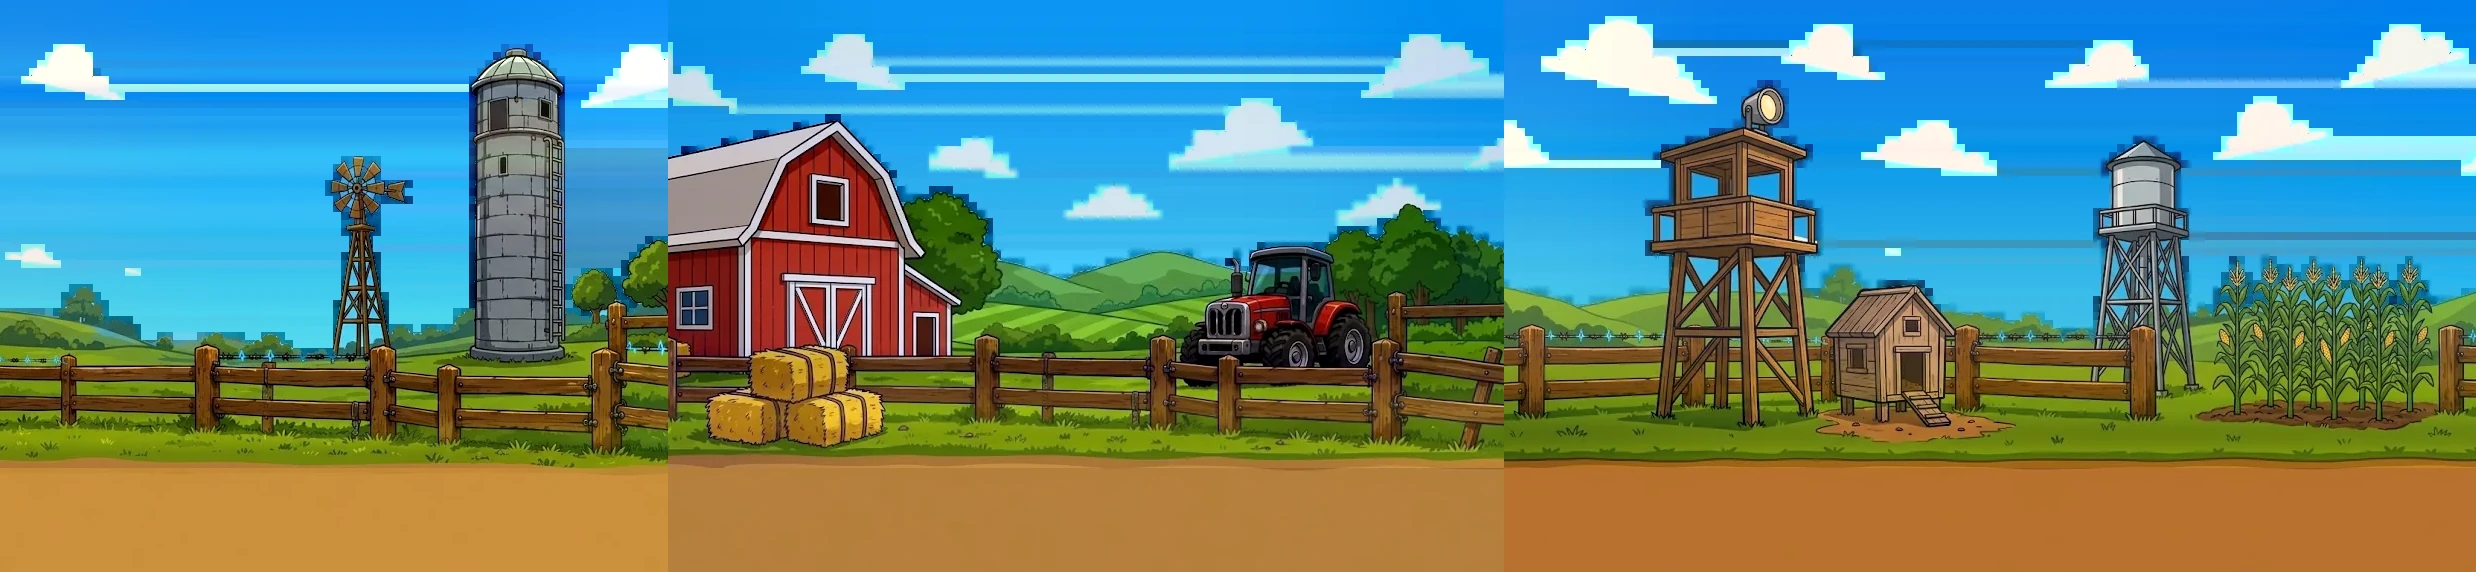
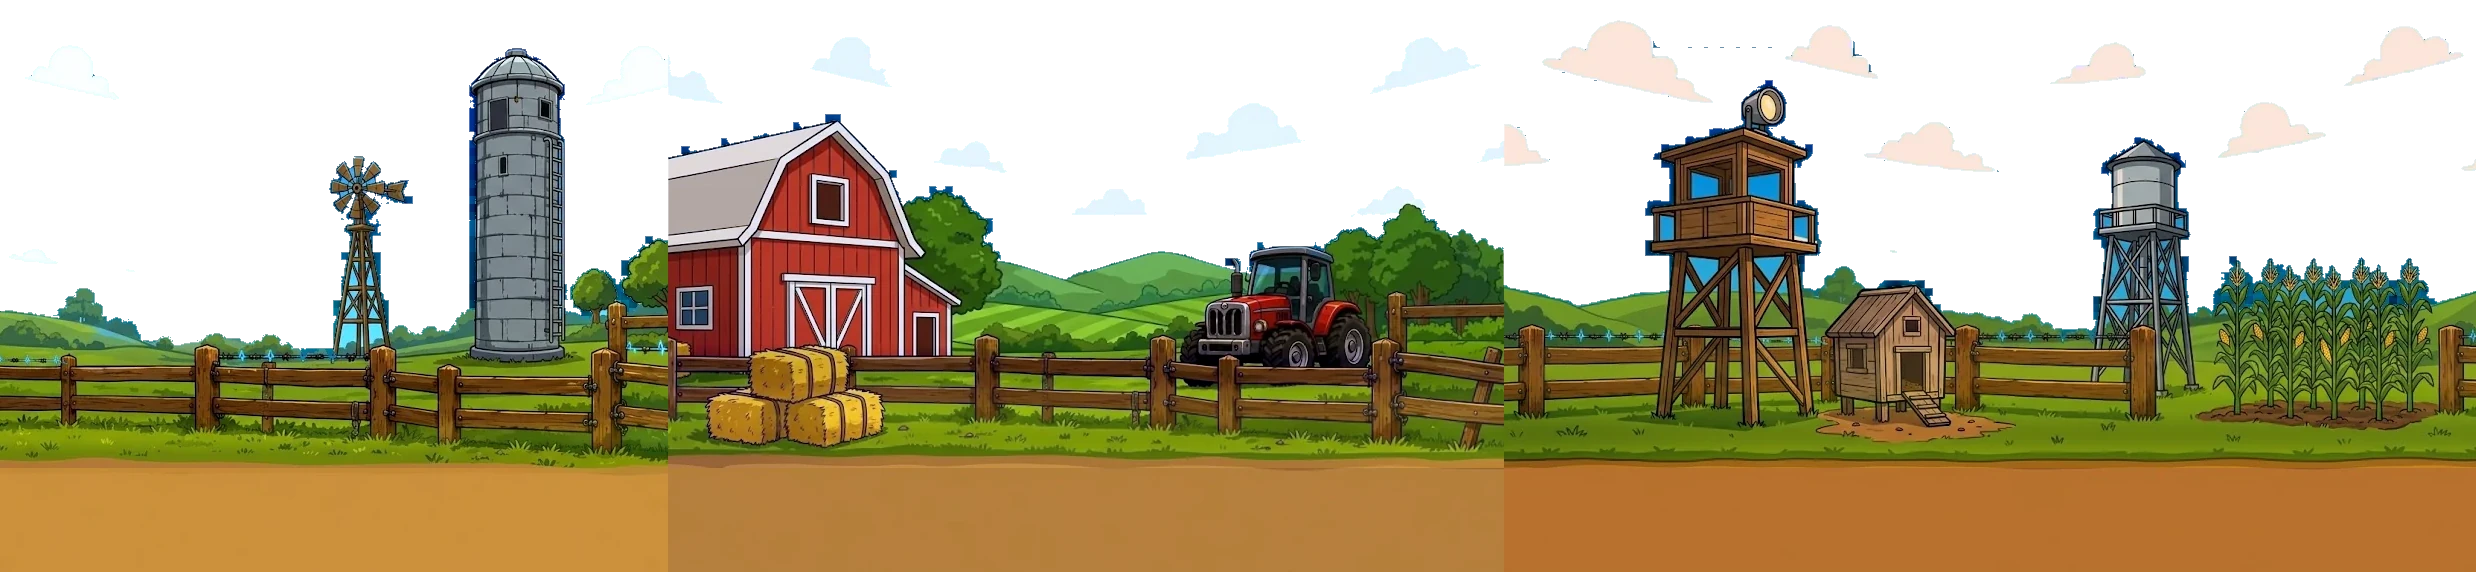
Make the background one painting instead of three
Three panels, overlapped by 46 units and cross-faded into each other through an
alpha ramp, each scaled by a different amount so its own landmarks would land
where the game wanted them. That is where the ghosting came from -- a silo
showing faintly through a windmill -- and why the fence changed size halfway
across the field.

tools/farm_strip.py joins them once, offline, and the game draws the result:

- The seams are searched for rather than assumed. Every pair of columns near
  the facing edges is scored and the best-matching pair wins, so the join lands
  where the fence, the horizon and the grass already agree.
- The ground lines -- painted at 0.785, 0.802 and 0.820 -- are levelled by
  sliding each panel down, not by scaling it, so every fence post stays the
  size it was painted.
- The painted sky is keyed out. The three skies are (27,157,252), (56,182,253)
  and (1,117,216) at the same height; that is not one sky and no correction
  makes it one. Matching them row by row left a step and striped the sky where
  the clouds starved the average. So the game's own gradient shows through the
  whole strip instead, and the painted clouds ride over it -- they are enclosed
  by sky, so the flood that clears it never reaches them.

The fields are still tone-matched row by row, smoothed, and feathered across
each seam. The haze that pushes the distance back is eased from .15 to .10,
since half of what read as faded was the cross-fade.
[…]

diff --git a/index.html b/index.html
@@ -3242,17 +3242,16 @@ function loadPanels(SET){
   });
   return SET;
 }
-/* `marks` is TWO landmarks per panel, measured off each image by
-   tools/cut_farm.py: the painted ground line, and the top of the fence's top
-   rail, both as fractions of that image's height. Two landmarks give two
-   equations, and a panel has two unknowns -- its scale and where its top sits
-   -- so both can be solved instead of guessed. That is what makes the grass
-   line AND the fence line run continuously across a seam.
+/* `marks` is TWO landmarks: the painted ground line, and the top of the
+   fence's top rail, both as fractions of the image's height. Two landmarks
+   give two equations, and the image has two unknowns -- its scale and where
+   its top sits -- so both are solved rather than guessed, which is what puts
+   the grass line on GROUND and the fence rail where the game expects it.
 
-   One shared floorFrac was the bug: the three panels were painted with ground
-   lines at 0.785, 0.802 and 0.820, so anchoring all of them on 0.806 stepped
-   the grass by up to 13px at every join and left the fence rails meeting at
-   different heights, which is what read as fences that do not attach. */
+   They used to be three panels with three pairs of marks, and the three ground
+   lines really were painted at 0.785, 0.802 and 0.820. tools/farm_strip.py
+   levels that offline now, by sliding each panel rather than scaling it, so
+   there is one pair of marks left. */
 /* ONE painting. The three panels used to be drawn as three: overlapped by 46
    units, cross-faded into each other through an alpha ramp, and each scaled by
    a different amount so its own two landmarks would land where the game wanted
@@ -3261,14 +3260,17 @@ function loadPanels(SET){
    and the per-panel scale made the fence change size halfway across the field,
    which is what read as fences that do not join.
 
-   tools/farm_strip.py now joins them once, offline: the seam is searched for
-   rather than assumed, the ground lines are levelled by sliding each panel
-   instead of scaling it, and the skies and fields are tone-matched row by row.
-   The game draws the result as a single opaque image, tiled -- so `blend` is 0
-   and there is nothing left to see through. Re-run that tool if the panels are
-   ever repainted; it prints the two marks below. */
+   tools/farm_strip.py now joins them once, offline: the seams are searched
+   for rather than assumed, the ground lines are levelled by sliding each panel
+   instead of scaling it, and the fields are tone-matched. The painted sky is
+   keyed out entirely -- the three skies were (27,157,252), (56,182,253) and
+   (1,117,216) at the same height, which is not one sky by any amount of
+   correction -- so the game's own gradient shows through the whole strip and
+   the clouds ride over it. The game tiles the result; `blend` is 0 and there
+   is nothing left to see through. Re-run that tool if the panels are ever
+   repainted; it prints the two marks below. */
 const FARM = loadPanels({ srcs:['sheets/v2/farm_strip.webp'],
-               imgs:[], ready:0, blend:0, haze:'rgba(146,196,246,.15)',
+               imgs:[], ready:0, blend:0, haze:'rgba(146,196,246,.10)',
                marks:[[0.8199,0.6276]],
                // buildLayers has already run by the time the art lands, so the
                // fallback layers are still in `layers`. Throw them away.
@@ -3295,12 +3297,9 @@ function titleRect(){
   return { w: iw*s, h: ih*s, x: (VW - iw*s)/2, y: (VH - ih*s)/2 };
 }
 
-/* The painted farm. Each panel is solved from its own two landmarks, so they
-   are not all the same size -- the widest is about 17% bigger than the
-   narrowest -- and that is fine: they are different scenery, and a continuous
-   fence line is worth far more than identical scales. Sizing them against the
-   play band instead of GROUND magnifies a 572px source about fourfold and puts
-   the silo tops off the frame, which is the trap the prison wall hit. */
+/* The painted farm: one image, one scale, tiled. Sizing it against the play
+   band instead of GROUND magnifies a 572px source about fourfold and puts the
+   silo tops off the frame, which is the trap the prison wall hit. */
 function farmGeom(){
   if(FARM.geom && FARM.geom.ground === GROUND && FARM.geom.n === FARM.ready) return FARM.geom;
   const F = GROUND * FARM_RAIL;

diff --git a/tools/farm_strip.py b/tools/farm_strip.py
@@ -18,12 +18,18 @@
       panel to reconcile that is what made the scenery change size; sliding each
       one down instead keeps every fence post the size it was painted, and the
       sky it exposes at the top is the panel's own top row.
-   3. **Tone is matched row by row.** Each panel's sky is nudged towards the
-      mean of the three skies and its field towards the mean of the three
-      fields, one row at a time and additively. The measurement only looks at
-      pixels that are actually sky or actually grass, so a red barn cannot drag
-      a row with it, and the dirt band below the ground line is skipped -- the
-      game crops it and draws the road there instead.
+   3. **The painted sky is thrown away.** The three skies are not variations of
+      one sky, they are different skies: (27,157,252), (56,182,253) and
+      (1,117,216) at the same height. Nothing short of repainting reconciles
+      that, and matching them flattens the art while still leaving a step. So
+      the sky is keyed out and the game's own gradient shows through the whole
+      strip -- one sky by construction, and one less thing to keep in step. The
+      painted clouds stay: they are enclosed by sky, so the flood never reaches
+      them.
+   4. **The fields are tone-matched** row by row, additively, measuring only
+      pixels that are actually grass so a red barn cannot drag a row with it,
+      and the seams get a local correction on top. The dirt band below the
+      ground line is skipped -- the game crops it and draws the road there.
 
      python tools/farm_strip.py          # -> sheets/v2/farm_strip.webp
 """
@@ -84,8 +90,9 @@ def match_rows(ims, spans, ground_f):
     span_n = [max(1, (sp[1]-sp[0])//3) for sp in spans]
 
     deltas = [[None]*gline for _ in ims]          # per panel, per row, per channel
-    for y in range(gline):
-        pick = is_sky if y < horizon else is_grass
+    # rows above the horizon are sky and are about to be keyed away entirely
+    for y in range(horizon, gline):                # the sky is keyed out, not matched
+        pick = is_grass
         means, counts = [], []
         for im, sp in zip(ims, spans):
             m, n = band_mean(im, sp, y, pick)
@@ -153,8 +160,8 @@ def feather_seams(strip, seams, ground_f, reach=260):
                     if pick(c):
                         tot[0] += c[0]; tot[1] += c[1]; tot[2] += c[2]; n += 1
             return ([t/n for t in tot], n) if n > 40 else (None, n)
-        band = []
-        for pick, y0, y1 in ((is_sky, 0, horizon), (is_grass, horizon, gline)):
+        band = [[0.0, 0.0, 0.0]]                   # the sky is keyed out; nothing to match
+        for pick, y0, y1 in ((is_grass, horizon, gline),):
             L, nl = side_mean(sx-1, -1, pick, y0, y1)
             R, nr = side_mean(sx,    +1, pick, y0, y1)
             if L is None or R is None: band.append([0.0, 0.0, 0.0]); continue
@@ -179,6 +186,50 @@ def feather_seams(strip, seams, ground_f, reach=260):
     return strip
 
 
+def key_sky(strip, ground_f):
+    """Flood the sky away from the top edge, so the game's gradient shows.
+
+       A flood, not a colour key: the clouds are white and enclosed by sky, so
+       the flood cannot reach them and they survive as painted clouds over the
+       game's sky. Nothing else in the picture is this blue, and the windmill's
+       lattice and the gaps under the water tower open onto the sky, so they
+       clear too."""
+    strip = strip.convert('RGBA')
+    w, h = strip.size
+    px = strip.load()
+    gline = int(h*ground_f)
+
+    def skyish(c):
+        return c[3] and c[2] > c[0] + 40 and c[2] > 150 and c[1] > c[0] + 20
+
+    from collections import deque
+    seen = bytearray(w*h)
+    q = deque()
+    for x in range(w):
+        if skyish(px[x, 0]): seen[x] = 1; q.append((x, 0))
+    while q:
+        x, y = q.popleft()
+        px[x, y] = (0, 0, 0, 0)
+        for dx, dy in ((1,0),(-1,0),(0,1),(0,-1)):
+            nx, ny = x+dx, y+dy
+            if 0 <= nx < w and 0 <= ny < gline and not seen[ny*w+nx] and skyish(px[nx, ny]):
+                seen[ny*w+nx] = 1; q.append((nx, ny))
+
+    # one pass of feathering, so the hard pixel edge does not fizz against a
+    # gradient it was never painted over
+    edge = []
+    for y in range(1, gline-1):
+        for x in range(1, w-1):
+            if px[x, y][3] == 0: continue
+            if (px[x-1, y][3] == 0 or px[x+1, y][3] == 0 or
+                px[x, y-1][3] == 0 or px[x, y+1][3] == 0):
+                edge.append((x, y))
+    for x, y in edge:
+        c = px[x, y]
+        px[x, y] = (c[0], c[1], c[2], 170)
+    return strip
+
+
 def build():
     ims = [Image.open(s).convert('RGB') for s in SRCS]
     target = max(GROUND_F)
@@ -199,15 +250,17 @@ def build():
         x += sp[1]-sp[0]; seams.append(x)
     seams.append(0)                                # the loop point is a seam too
     strip = feather_seams(strip, seams, target)
-    strip.save(OUT, 'WEBP', quality=90, method=6)
+    strip = key_sky(strip, target)
+    strip.save(OUT, 'WEBP', quality=90, method=6, lossless=False, exact=True)
 
     rail = sum(RAIL_F)/3.0 + (target - sum(GROUND_F)/3.0)   # the rail slides too
     print('%s  %dx%d  %d KB' % (OUT, strip.width, strip.height, os.path.getsize(OUT)//1024))
     print('ground %.4f   rail %.4f   (both fractions of the image height)' % (target, rail))
 
-    two = Image.new('RGB', (int(total*1.4), strip.height))
-    two.paste(strip, (0, 0))
-    two.paste(strip.crop((0, 0, int(total*0.4), strip.height)), (total, 0))
+    two = Image.new('RGB', (int(total*1.4), strip.height), (34, 120, 214))
+    two.paste(strip, (0, 0), strip)
+    cut = strip.crop((0, 0, int(total*0.4), strip.height))
+    two.paste(cut, (total, 0), cut)
     two.resize((two.width//2, two.height//2), Image.LANCZOS).save('_farm_strip.png')
     return strip
 

diff --git a/_CONTINUE-HERE.md b/_CONTINUE-HERE.md
@@ -806,6 +806,8 @@ dropped frame every 26s, for tens of MB of canvas held on a phone.
     python tools/shot.py URL out.png        # one screenshot, real device metrics
     python tools/title_art.py               # rebuild the title poster from ref/
     python tools/npc_frames.py              # recut the cow, pig and goat frames
+    python tools/farm_seams.py              # where the farm panels should be cut
+    python tools/farm_strip.py              # rebuild the one-image background
     python tools/build_apex.py              # rebuild the barn's roof from sheets/v2/barn_raw.png
 
 `clip.py` uses `Page.startScreencast`, which timestamps frames, so the GIF keeps
@@ -903,6 +905,40 @@ frame with none on screen, which looks exactly like a wiring bug and cost a
 long chase through save/restore depth, clip regions and canvas identity before
 a six-frame strip showed them walking about quite happily. Grab a clip with
 `tools/clip.py`, not a screenshot.
+
+## The background is one painting
+
+`sheets/v2/farm_strip.webp` is the whole farm: one image, one scale, tiled.
+`tools/farm_strip.py` builds it from the three painted panels, and it exists
+because drawing them as three was the source of every complaint about this
+background.
+
+What was wrong, and what replaced it:
+
+- **They overlapped and cross-faded.** A 46-unit overlap with an alpha ramp
+  down each panel's left edge meant one painting showed through another -- a
+  silo ghosting behind a windmill. The strip is cut, not blended: the seam is
+  *searched for* (`tools/farm_seams.py` scores every pair of columns near the
+  facing edges and keeps the pair that meets best), so the join lands where the
+  fence, the horizon and the grass already agree.
+- **Each panel was scaled differently** so its own two landmarks would land
+  where the game wanted them -- up to 17% apart, which is why the fence changed
+  size halfway across the field. The ground lines are levelled by *sliding*
+  each panel now, which keeps every fence post the size it was painted.
+- **The painted sky is thrown away.** The three skies are not variations of one
+  sky: (27,157,252), (56,182,253) and (1,117,216) at the same height. No
+  correction reconciles that -- row-matching them left a step and flattened the
+  art -- so the sky is keyed out and the game's own gradient shows through the
+  whole strip. One sky by construction. The clouds survive: they are white and
+  enclosed by sky, so the flood that clears it never reaches them.
+
+The remaining tone differences are in the fields, and those are matched row by
+row and then feathered across each seam. **Smooth the corrections before
+applying them**: measured per row and used raw, a row that happens to be mostly
+cloud has almost no sky left to average, the delta jumps against its
+neighbours, and the sky ends up in horizontal stripes.
+
+Costs nothing: 28.4ms a frame before, 28.9 after, at a 4x CPU throttle.
 
 ## Next
 
